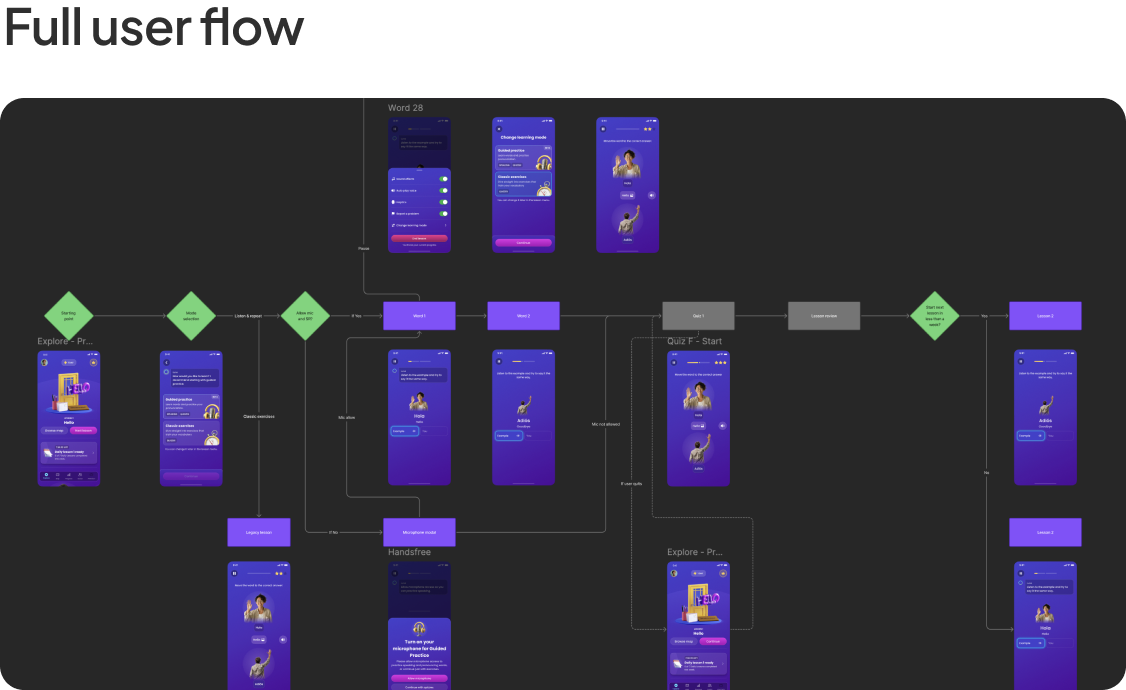
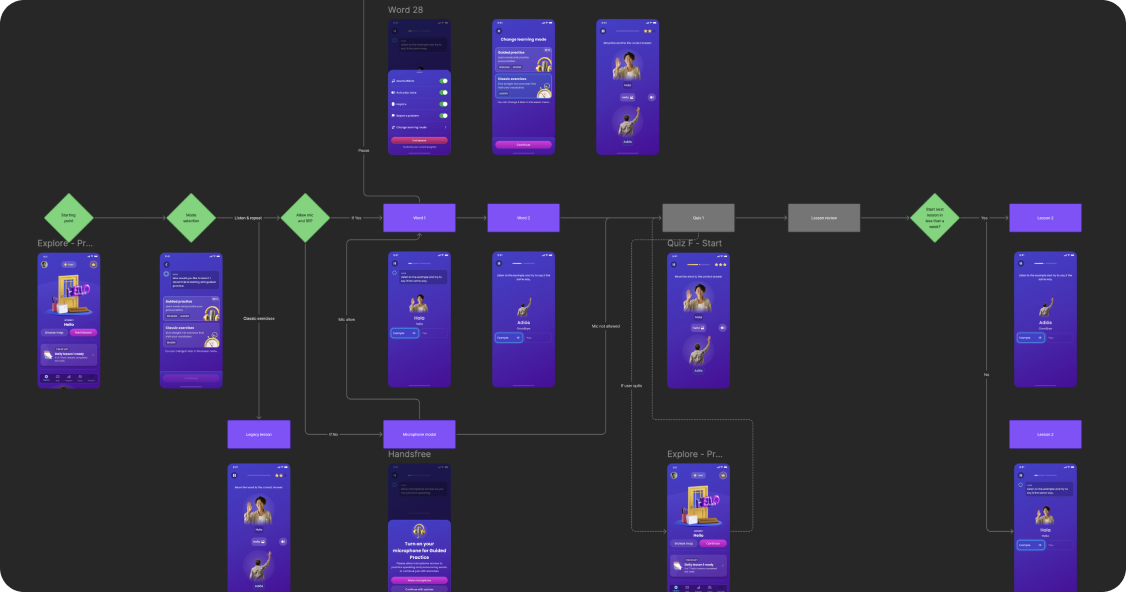
Refine case study typography, quotes and images
- Remove dividers inside case study pages; keep the footer one
- Clearer type hierarchy: intro as the only lead, takeaway at body size,
  stat labels as captions, and a reordered scope block in Listen and repeat
- Purple quotation marks on quotes instead of a side bar
- Bulleted user stories on Postpone renewal date
- Listen and repeat: previous experience image with both arrows on a
  transparent background, and the baked-in title cropped off the user flow

diff --git a/src/app/global.css b/src/app/global.css
@@ -592,31 +592,28 @@ body:has(.case-study-page) {
 .lr-tldr { max-width:1000px; }
 .lr-tldr h2 { margin-top:0; }
 .lr-lede { margin-top:24px; max-width:1000px; }
-.lr-takeaway { margin-top:38px; padding-top:24px; border-top:1px solid var(--color-border); }
+.lr-takeaway { margin-top:38px; }
 .lr-takeaway span { color:var(--ui-lavender); font:600 12px/1 ui-monospace,SFMono-Regular,Menlo,monospace; letter-spacing:.06em; text-transform:none; }
 .lr-takeaway p { margin-top:14px; }
 .lr-section { scroll-margin-top:48px; }
 .lr-quotes { display:grid; grid-template-columns:repeat(3,minmax(0,1fr)); gap:18px; margin-top:48px; }
-.lr-quote { position:relative; padding:2px 0 2px 20px; border-left:2px solid var(--ui-lavender); }
-.lr-quote > span { display:none; }
+.lr-quote { margin:0; }
 .lr-quote p { margin:0; }
 .lr-previous { display:grid; grid-template-columns:minmax(260px,.78fr) minmax(0,1.22fr); align-items:center; gap:54px; }
 .lr-figure { min-width:0; margin:0; }
 .lr-figure img { display:block; width:100%; height:auto; object-fit:contain; }
 .lr-figure figcaption { padding-top:12px; color:var(--ui-muted); font-size:13px; line-height:1.5; }
-.lr-previous-figure { aspect-ratio:1.35/1; }
-.lr-previous-figure img { height:100%; object-fit:cover; object-position:center 100%; }
 .lr-research-cards { display:grid; grid-template-columns:repeat(2,minmax(0,1fr)); gap:24px; margin-top:44px; }
-.lr-info-card { padding-top:24px; border-top:1px solid var(--color-border); }
 .lr-card-number { display:block; margin-bottom:16px; color:var(--ui-lavender); font:600 12px/1 ui-monospace,SFMono-Regular,Menlo,monospace; letter-spacing:.06em; text-transform:none; }
 .lr-info-card p,.lr-decision p { margin-top:16px; font-size:15px; line-height:1.7; }
-.lr-scope { margin-top:46px; padding:32px 0; border-top:1px solid var(--color-border); border-bottom:1px solid var(--color-border); }
-.lr-scope .lr-eyebrow { margin-bottom:18px; }
-.lr-scope strong { display:block; margin-top:18px; }
+.lr-scope { margin-top:56px; }
+.lr-scope h3 { margin:0; }
+.lr-scope > p { margin-top:12px; }
+.lr-scope .lr-eyebrow { margin:32px 0 10px; }
+.lr-key-question { margin:0; }
 .lr-wide-figure { margin-top:50px; }
 .lr-transition-copy { margin-top:64px !important; max-width:860px; }
 .lr-decisions { display:grid; grid-template-columns:repeat(2,minmax(0,1fr)); gap:24px; margin-top:28px; }
-.lr-decision { padding-top:24px; border-top:1px solid var(--color-border); }
 .lr-decision .lr-card-number { margin-bottom:16px; }
 .lr-flow-figure { margin:68px auto 0; max-width:1020px; }
 .lr-user-flow-figure { margin-top:76px; }
@@ -624,10 +621,10 @@ body:has(.case-study-page) {
 .lr-mockups-figure { width:min(900px,100%); margin:54px auto 0; }
 .lr-mockups-figure img { width:100%; }
 .lr-metrics { display:grid; grid-template-columns:repeat(3,minmax(0,1fr)); gap:20px; margin-top:44px; }
-.lr-metric { display:flex; flex-direction:column; gap:10px; padding-top:20px; border-top:1px solid var(--color-border); }
+.lr-metric { display:flex; flex-direction:column; gap:10px; }
 .lr-metric .ui-stat { color:var(--ui-lavender-deep); font-size:clamp(38px,5vw,60px); }
 .lr-metric span { color:var(--ui-muted); font-size:14px; line-height:1.45; }
-.lr-results-note { margin-top:22px; }
+.lr-results-note { margin-top:40px; }
 @keyframes lr-hero-arrive { from { opacity:0; transform:translateY(20px) scale(.98); } to { opacity:1; transform:translateY(0) scale(1); } }
 @media (max-width:760px) {
   .lr-hero { min-height:clamp(390px,100vw,500px); }
@@ -637,10 +634,7 @@ body:has(.case-study-page) {
   .lr-intro { padding-top:44px; }
   .lr-story { gap:82px; margin-top:62px; }
   .lr-quotes,.lr-research-cards,.lr-decisions,.lr-metrics { grid-template-columns:1fr; }
-  .lr-quote--2 { transform:none; }
-  .lr-quote { min-height:0; }
   .lr-previous { grid-template-columns:1fr; gap:28px; }
-  .lr-previous-figure { aspect-ratio:1.08/1; }
   .lr-info-card { min-height:0; }
   .lr-flow-figure,.lr-user-flow-figure { margin-top:46px; }
   .lr-prototype,.lr-impact { padding:24px; border-radius:24px; }
@@ -666,7 +660,7 @@ body:has(.case-study-page) {
 }
 
 /* --- Case study: results up front --- */
-.case-results-glance { display:grid; grid-template-columns:repeat(4,minmax(0,1fr)); gap:20px; margin-top:28px; padding-top:20px; border-top:1px solid var(--color-border); }
+.case-results-glance { display:grid; grid-template-columns:repeat(4,minmax(0,1fr)); gap:20px; margin-top:32px; }
 .case-results-glance:has(> :nth-child(3):last-child) { grid-template-columns:repeat(3,minmax(0,1fr)); }
 .case-results-glance strong { display:block; color:#171719; font-size:clamp(24px,2.6vw,32px); line-height:1.1; letter-spacing:-.02em; }
 .case-results-glance span { display:block; margin-top:6px; color:#5f625e; font-size:14px; line-height:1.45; }
@@ -726,7 +720,7 @@ html[data-gate="unlocked"] .hero-shell,html[data-gate="unlocked"] .site-header {
 .article-header h1 { margin:0 0 26px; }
 .article-lede { margin:0 0 16px; color:#4f514c; line-height:1.7; }
 .article-body { max-width:760px; margin:48px auto 0; color:#555650; line-height:1.75; }
-.article-body h2 { margin:72px 0 0; padding-top:28px; border-top:1px solid #e5e3de; }
+.article-body h2 { margin:72px 0 0; }
 .article-body h3 { margin:40px 0 0; color:var(--ui-ink); }
 .article-body p { margin:16px 0 0; }
 .article-body ul,.article-body ol { margin:18px 0 0; padding-left:1.3em; }
@@ -736,10 +730,9 @@ html[data-gate="unlocked"] .hero-shell,html[data-gate="unlocked"] .site-header {
 .article-body li::marker { color:var(--ui-lavender); font-weight:700; }
 .article-body strong { color:var(--ui-ink); font-weight:650; }
 .article-body code { padding:2px 7px; border:1px solid rgba(115,83,184,.22); border-radius:6px; color:#5C3E9B; background:#f3eff9; font:500 .86em ui-monospace,SFMono-Regular,Menlo,monospace; }
-.article-table { margin:26px 0 0; overflow-x:auto; border-top:1px solid var(--color-border); border-bottom:1px solid var(--color-border); }
+.article-table { margin:26px 0 0; overflow-x:auto; }
 .article-table table { width:100%; min-width:560px; border-collapse:collapse; font-size:15px; line-height:1.55; }
-.article-table th,.article-table td { padding:14px 18px 14px 0; text-align:left; vertical-align:top; border-bottom:1px solid var(--color-border); }
-.article-table tr:last-child th,.article-table tr:last-child td { border-bottom:0; }
+.article-table th,.article-table td { padding:12px 18px 12px 0; text-align:left; vertical-align:top; }
 .article-table thead th { color:var(--ui-lavender); font:600 11px/1.4 ui-monospace,SFMono-Regular,Menlo,monospace; letter-spacing:.06em; text-transform:uppercase; }
 .article-table tbody th { width:24%; color:var(--ui-ink); font-weight:650; }
 @media (max-width:760px) {
@@ -813,17 +806,15 @@ html[data-gate="unlocked"] .hero-shell,html[data-gate="unlocked"] .site-header {
 .story-hero { display:flex; justify-content:center; margin:0 auto 40px; }
 .story-hero img { width:min(100%,860px); max-height:clamp(300px,38vw,500px); object-fit:contain; animation:lr-hero-arrive .8s cubic-bezier(.2,.8,.2,1) both; }
 .article-header .case-results-glance { margin-top:32px; }
-.story-takeaway { margin-top:28px; padding-top:20px; border-top:1px solid var(--color-border); }
+.story-takeaway { margin-top:36px; }
 .story-takeaway p { margin:0; }
 .story-card-eyebrow { display:block; margin:0 0 10px; color:var(--ui-lavender); font:600 12px/1 ui-monospace,SFMono-Regular,Menlo,monospace; letter-spacing:.06em; text-transform:none; }
-.article-body .story-quote { margin:28px 0 0; padding:2px 0 2px 20px; border-left:2px solid var(--ui-lavender); }
-.story-cards { display:grid; grid-template-columns:repeat(2,minmax(0,1fr)); margin-top:24px; border-top:1px solid var(--color-border); border-bottom:1px solid var(--color-border); }
-.story-card { padding:24px 24px 24px 0; }
-.story-card + .story-card { padding-left:24px; border-left:1px solid var(--color-border); }
+.article-body .story-quote { margin:28px 0 0; }
+.story-cards { display:grid; grid-template-columns:repeat(2,minmax(0,1fr)); gap:40px; margin-top:28px; }
 .article-body .story-card h3 { margin:0; }
 .article-body .story-card p { margin-top:10px; font-size:15px; line-height:1.65; }
-.article-body ul.story-user-stories { margin-top:22px; padding:0; list-style:none; border-top:1px solid var(--color-border); }
-.article-body .story-user-stories li { margin:0; padding:14px 0; border-bottom:1px solid var(--color-border); }
+.article-body ul.story-user-stories { margin-top:22px; }
+.article-body .story-user-stories li { margin-top:14px; }
 .article-body .story-user-stories strong { color:var(--ui-lavender-deep); }
 /* Wide media breaks out of the 760px reading column, up to 1080px. */
 .story-phones,.story-figure--wide { --story-wide:min(1080px,calc(100vw - 48px)); width:var(--story-wide); margin-left:calc((100% - var(--story-wide)) / 2); }
@@ -838,8 +829,7 @@ html[data-gate="unlocked"] .hero-shell,html[data-gate="unlocked"] .site-header {
 .story-phones figcaption,.story-figure figcaption { margin-top:14px; color:#626762; font-size:14px; line-height:1.5; text-align:center; }
 .article-body .case-results-glance { margin-top:26px; }
 @media (max-width:760px) {
-  .story-cards { grid-template-columns:1fr; }
-  .story-card + .story-card { padding-left:0; border-left:0; border-top:1px solid var(--color-border); }
+  .story-cards { grid-template-columns:1fr; gap:28px; }
   /* On phones, rows of screens become a swipeable strip. */
   .story-phones > div { justify-content:flex-start; gap:12px; overflow-x:auto; scroll-snap-type:x mandatory; padding:0 4px 8px; }
   .story-phones img { flex:0 0 58vw; max-width:240px; scroll-snap-align:center; }
@@ -859,7 +849,8 @@ html[data-gate="unlocked"] .hero-shell,html[data-gate="unlocked"] .site-header {
 .case-label-meta { color:#626762; }
 /* Stats read like the homepage hero stats: heading-font value, plain grey label. */
 .case-results-glance strong,.lr-metric .ui-stat { color:var(--ui-ink); font-family:var(--font-heading); font-size:32px; font-weight:700; line-height:1; letter-spacing:-.06em; }
-.case-results-glance span,.lr-metric span { margin-top:6px; color:#626762; font-size:16px; line-height:1.45; letter-spacing:.02em; }
+/* Stat labels are captions under the numbers, a step below body text. */
+.case-results-glance span,.lr-metric span { margin-top:8px; color:#626762; font-size:14px; line-height:1.45; letter-spacing:.01em; }
 /* Click-through recordings framed like a phone. */
 .phone-video { width:clamp(220px,24vw,290px); margin:48px auto 0; }
 .phone-video video { display:block; width:100%; height:auto; border:6px solid #17171a; border-radius:34px; background:#17171a; }
@@ -867,7 +858,14 @@ html[data-gate="unlocked"] .hero-shell,html[data-gate="unlocked"] .site-header {
 
 /* Case study type scale: 12px mono labels, 16px body, 20px emphasis (intro, takeaway, quotes, key question),
    20px semibold small headings. Text is regular; only headings and highlighted words are bold. */
-.case-emphasis,.lr-scope strong,.article-body .story-quote { font:400 20px/1.6 var(--font-sans); letter-spacing:-.005em; }
+.case-emphasis,.article-body .story-quote { font:400 20px/1.6 var(--font-sans); letter-spacing:-.005em; }
 .lr-lede.case-emphasis,.article-lede.case-emphasis { color:var(--ui-muted); }
-.lr-takeaway .case-emphasis,.story-takeaway .case-emphasis,.lr-quote .case-emphasis,.lr-scope strong,.article-body .story-quote { color:var(--ui-ink); }
-@media (max-width:760px) { .case-emphasis,.lr-scope strong,.article-body .story-quote { font-size:18px; } }
+.lr-quote .case-emphasis,.lr-key-question,.article-body .story-quote { color:var(--ui-ink); }
+/* The takeaway is a note under its label: body size, in ink rather than grey. */
+.lr-takeaway p,.story-takeaway p { color:var(--ui-ink); line-height:1.65; }
+@media (max-width:760px) { .case-emphasis,.article-body .story-quote { font-size:18px; } }
+
+/* Quotes are marked with purple quotation marks rather than a side bar. */
+.case-quote::before { content:"\201C"; }
+.case-quote::after { content:"\201D"; }
+.case-quote::before,.case-quote::after { color:var(--ui-lavender); font-family:var(--font-heading); font-weight:700; }

diff --git a/src/components/case-studies/LanguagePlusCaseStudy.tsx b/src/components/case-studies/LanguagePlusCaseStudy.tsx
@@ -22,7 +22,7 @@ function Figure({ src, alt, caption }: { src: string; alt: string; caption: stri
 
 function Section({ eyebrow, title, children }: { eyebrow: string; title: string; children: React.ReactNode }) {
   return (
-    <section className="my-20 grid gap-8 border-t border-black/10 pt-8 md:grid-cols-[0.7fr_1.3fr]">
+    <section className="my-20 grid gap-8 md:grid-cols-[0.7fr_1.3fr]">
       <div><span className="case-eyebrow">{eyebrow}</span><h2 className="ui-heading ui-heading--subsection mt-3">{title}</h2></div>
       <div className="space-y-5 text-base leading-relaxed text-black/70">{children}</div>
     </section>
@@ -38,7 +38,7 @@ export function LanguagePlusCaseStudy({ project, nextProject }: { project: Proje
           <CaseStudyLabel project={project} />
           <h1 className="ui-heading ui-heading--page mt-5">From Mondly to Language+</h1>
           <p className="case-emphasis mt-6 max-w-[760px] text-black/65">Turning a consumer app into a product for schools: a one-year journey from evidence-led vision to a live English practice product.</p>
-          <div className="mt-9 grid gap-6 border-y border-black/10 py-6 sm:grid-cols-3">
+          <div className="mt-9 grid gap-6 sm:grid-cols-3">
             <div><span className="case-eyebrow">My role</span><p className="mt-2">Senior Product Designer · strategy, research, UX</p></div>
             <div><span className="case-eyebrow">Team</span><p className="mt-2">Product, learning design, engineering, sales</p></div>
             <div><span className="case-eyebrow">Scope</span><p className="mt-2">Vision, student practice, teacher tools, pilot</p></div>
@@ -58,9 +58,9 @@ export function LanguagePlusCaseStudy({ project, nextProject }: { project: Proje
         <Section eyebrow="Research" title="We grounded the vision in teachers’ everyday constraints.">
           <p>I helped shape the research plan and ran 12 of 13 interviews with 23 teachers across seven countries. The recurring need was clear: students forget between lessons, and practice has to follow the coursebook if teachers are going to recommend it.</p>
           <div className="grid gap-3 py-3 sm:grid-cols-3">
-            <div className="border-t border-black/10 pt-5"><strong className="block text-3xl">23 / 23</strong><span className="mt-2 block text-base">said students forget between lessons</span></div>
-            <div className="border-t border-black/10 pt-5"><strong className="block text-3xl">15 / 23</strong><span className="mt-2 block text-base">rated coursebook alignment 10/10</span></div>
-            <div className="border-t border-black/10 pt-5"><strong className="block text-3xl">22 / 23</strong><span className="mt-2 block text-base">said teacher visibility was critical</span></div>
+            <div><strong className="block text-3xl">23 / 23</strong><span className="mt-2 block text-base">said students forget between lessons</span></div>
+            <div><strong className="block text-3xl">15 / 23</strong><span className="mt-2 block text-base">rated coursebook alignment 10/10</span></div>
+            <div><strong className="block text-3xl">22 / 23</strong><span className="mt-2 block text-base">said teacher visibility was critical</span></div>
           </div>
           <p>Those findings shaped the Memory Challenge, unit-based practice, a teacher dashboard and a quick setup path. They also helped us make deliberate scope calls: light gamification for learners 16+, and no AI at launch while teacher trust was split.</p>
         </Section>
@@ -91,7 +91,7 @@ export function LanguagePlusCaseStudy({ project, nextProject }: { project: Proje
         </Section>
         <Figure src="7-onboarding.jpg" alt="Language+ onboarding version two concepts" caption="Testing helped identify where the scalable onboarding flow still needed clearer language and fallback." />
 
-        <section className="my-20 border-y border-black/10 py-10">
+        <section className="my-20">
           <span className="case-eyebrow">What moved</span>
           <div className="mt-8 grid gap-8 sm:grid-cols-2 lg:grid-cols-4">
             {RESULTS.map(([value, label]) => <div key={value}><strong className="text-3xl md:text-4xl">{value}</strong><p className="mt-3 text-sm leading-relaxed text-black/60">{label}</p></div>)}
@@ -99,7 +99,7 @@ export function LanguagePlusCaseStudy({ project, nextProject }: { project: Proje
           <p className="mt-9 max-w-[760px] text-sm leading-relaxed text-black/55">Language+ 1.0 was ready at the end of June 2026 and launched in Turkey, Switzerland, the Netherlands, Belgium, Luxembourg and Ukraine in August. The reported sales lift applies to the regions and coursebooks where it launched.</p>
         </section>
 
-        <blockquote className="case-emphasis my-20 max-w-[850px] border-l-2 border-[#7353B8] pl-6 text-[#1a1a1a]">“A vision needs evidence before it needs polish. Postponing the first leadership pitch felt like a setback. It turned out to be the reason the vision held up.”</blockquote>
+        <blockquote className="case-quote case-emphasis my-20 max-w-[850px] text-[#1a1a1a]">A vision needs evidence before it needs polish. Postponing the first leadership pitch felt like a setback. It turned out to be the reason the vision held up.</blockquote>
 
         <CaseStudyNext project={nextProject} />
       </div>

diff --git a/src/components/case-studies/ListenRepeatCaseStudy.tsx b/src/components/case-studies/ListenRepeatCaseStudy.tsx
@@ -50,7 +50,7 @@ export function ListenRepeatCaseStudy({ project, nextProject }: ListenRepeatCase
               <p className="lr-lede case-emphasis">{c.tldr}</p>
               <aside className="lr-takeaway">
                 <span>The key takeaway</span>
-                <p className="case-emphasis">{c.keyTakeaway}</p>
+                <p>{c.keyTakeaway}</p>
               </aside>
             </section>
           </RevealItem>
@@ -65,8 +65,7 @@ export function ListenRepeatCaseStudy({ project, nextProject }: ListenRepeatCase
               <div className="lr-quotes" aria-label="Learner feedback">
                 {c.problem.quotes.map((quote, index) => (
                   <blockquote key={quote} className={`lr-quote lr-quote--${index + 1}`}>
-                    <span aria-hidden="true">“</span>
-                    <p className="case-emphasis">{quote}</p>
+                    <p className="case-quote case-emphasis">{quote}</p>
                   </blockquote>
                 ))}
               </div>
@@ -106,9 +105,10 @@ export function ListenRepeatCaseStudy({ project, nextProject }: ListenRepeatCase
                 ))}
               </div>
               <div className="lr-scope">
-                <Eyebrow>Limiting the scope</Eyebrow>
+                <h3 className="ui-heading ui-heading--small">{c.research.limitingScope.heading}</h3>
                 <p>{c.research.limitingScope.body}</p>
-                <strong>{c.research.keyQuestion.question}</strong>
+                <Eyebrow>{c.research.keyQuestion.label}</Eyebrow>
+                <blockquote className="lr-key-question case-emphasis">{c.research.keyQuestion.question}</blockquote>
               </div>
             </section>
           </RevealItem>

diff --git a/src/data/case-studies/listen-repeat.ts b/src/data/case-studies/listen-repeat.ts
@@ -66,9 +66,9 @@ export const listenRepeatCaseStudy = {
       body: "The ideal solution? An AI tutor, progressive vocabulary, spaced repetition, pronunciation feedback. But that was months of work, and in the meantime learners would still be dropping off every day.",
     },
     keyQuestion: {
-      label: "So I reframed the question:",
+      label: "So I reframed the question",
       question:
-        "how can we use and repurpose what we already have to deliver immediate value without committing to a massive build?",
+        "How can we use and repurpose what we already have to deliver immediate value, without committing to a massive build?",
     },
   },
   solution: {
@@ -117,7 +117,7 @@ export const listenRepeatCaseStudy = {
   },
   images: {
     heroProduct: "/images/case-studies/listen-repeat/hero-product.png",
-    previousExperience: "/images/case-studies/listen-repeat/previous-experience.png",
+    previousExperience: "/images/case-studies/listen-repeat/previous-experience-screens.png",
     solutionExploration: "/images/case-studies/listen-repeat/solution-exploration.png",
     flowSteps: "/images/case-studies/listen-repeat/flow-steps.png",
     userFlow: "/images/case-studies/listen-repeat/user-flow.png",

diff --git a/src/components/case-studies/StoryCaseStudy.tsx b/src/components/case-studies/StoryCaseStudy.tsx
@@ -56,7 +56,7 @@ function Block({ block }: { block: StoryBlock }) {
         </div>
       );
     case "quote":
-      return <blockquote className="story-quote">{block.text}</blockquote>;
+      return <blockquote className="story-quote case-quote">{block.text}</blockquote>;
     case "cards":
       return (
         <div className="story-cards">
@@ -127,7 +127,7 @@ export function StoryCaseStudy({ project, nextProject, story }: StoryCaseStudyPr
           {story.takeaway && (
             <aside className="story-takeaway">
               <span className="story-card-eyebrow">The key takeaway</span>
-              <p className="case-emphasis">{story.takeaway}</p>
+              <p>{story.takeaway}</p>
             </aside>
           )}
         </header>
